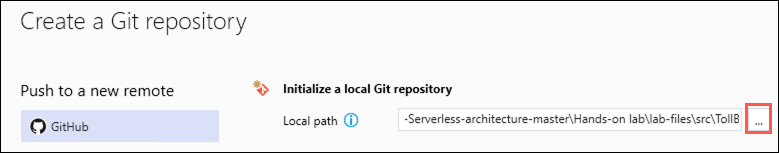
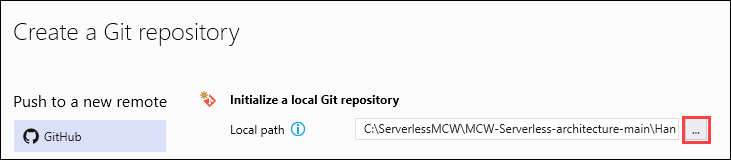
Images updated for master to main update

diff --git a/Hands-on lab/HOL step-by-step - Serverless architecture.md b/Hands-on lab/HOL step-by-step - Serverless architecture.md
@@ -32,11 +32,13 @@ Microsoft and the trademarks listed at <https://www.microsoft.com/legal/intellec
   - [Solution architecture](#solution-architecture)
   - [Requirements](#requirements)
   - [Exercise 1: Develop and publish the photo processing and data export functions](#exercise-1-develop-and-publish-the-photo-processing-and-data-export-functions)
+    - [Help references](#help-references)
     - [Task 1: Connect to the Lab VM](#task-1-connect-to-the-lab-vm)
     - [Task 2: Open the starter solution in Visual Studio](#task-2-open-the-starter-solution-in-visual-studio)
     - [Task 3: Finish the ProcessImage function](#task-3-finish-the-processimage-function)
     - [Task 4: Publish the Function App from Visual Studio](#task-4-publish-the-function-app-from-visual-studio)
   - [Exercise 2: Create functions in the portal](#exercise-2-create-functions-in-the-portal)
+    - [Help references](#help-references-1)
     - [Task 1: Create a function to save license plate data to Azure Cosmos DB](#task-1-create-a-function-to-save-license-plate-data-to-azure-cosmos-db)
     - [Task 2: Add an Event Grid subscription to the SavePlateData function](#task-2-add-an-event-grid-subscription-to-the-saveplatedata-function)
     - [Task 3: Add an Azure Cosmos DB output to the SavePlateData function](#task-3-add-an-azure-cosmos-db-output-to-the-saveplatedata-function)
@@ -44,13 +46,17 @@ Microsoft and the trademarks listed at <https://www.microsoft.com/legal/intellec
     - [Task 5: Add an Event Grid subscription to the QueuePlateForManualCheckup function](#task-5-add-an-event-grid-subscription-to-the-queueplateformanualcheckup-function)
     - [Task 6: Add an Azure Cosmos DB output to the QueuePlateForManualCheckup function](#task-6-add-an-azure-cosmos-db-output-to-the-queueplateformanualcheckup-function)
   - [Exercise 3: Monitor your functions with Application Insights](#exercise-3-monitor-your-functions-with-application-insights)
+    - [Help references](#help-references-2)
     - [Task 1: Use the Live Metrics Stream to monitor functions in real-time](#task-1-use-the-live-metrics-stream-to-monitor-functions-in-real-time)
     - [Task 2: Observe your functions dynamically scaling when resource-constrained](#task-2-observe-your-functions-dynamically-scaling-when-resource-constrained)
   - [Exercise 4: Explore your data in Azure Cosmos DB](#exercise-4-explore-your-data-in-azure-cosmos-db)
+    - [Help references](#help-references-3)
     - [Task 1: Use the Azure Cosmos DB Data Explorer](#task-1-use-the-azure-cosmos-db-data-explorer)
   - [Exercise 5: Create the data export workflow](#exercise-5-create-the-data-export-workflow)
+    - [Help references](#help-references-4)
     - [Task 1: Create the Logic App](#task-1-create-the-logic-app)
   - [Exercise 6: Configure continuous deployment for your Function App](#exercise-6-configure-continuous-deployment-for-your-function-app)
+    - [Help references](#help-references-5)
     - [Task 1: Add git repository to your Visual Studio solution and deploy to GitHub](#task-1-add-git-repository-to-your-visual-studio-solution-and-deploy-to-github)
     - [Task 2: Configure your Function App to use your GitHub repository for continuous deployment](#task-2-configure-your-function-app-to-use-your-github-repository-for-continuous-deployment)
     - [Task 3: Finish your ExportLicensePlates function code and push changes to GitHub to trigger deployment](#task-3-finish-your-exportlicenseplates-function-code-and-push-changes-to-github-to-trigger-deployment)
@@ -852,7 +858,7 @@ In this exercise, configure your Function App that contains the ProcessImage fun
 
     - **Organization**: Select the GitHub account organization in which you created the repo.
     - **Repository**: Select the **serverless-architecture-lab**, or whatever name you chose for the repo.
-    - **Branch**: Select **main**.
+    - **Branch**: Select **master**.
 
     ![The GitHub settings specified above are entered into the Settings dialog.](media/deployment-center-github-settings.png "GitHub settings")
 
